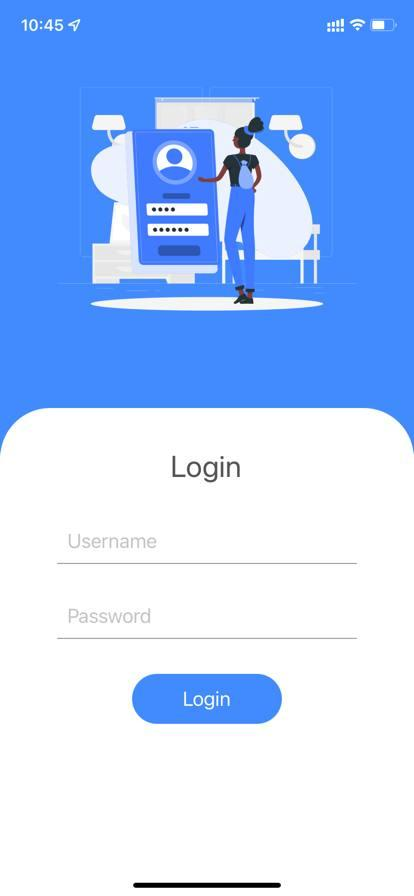
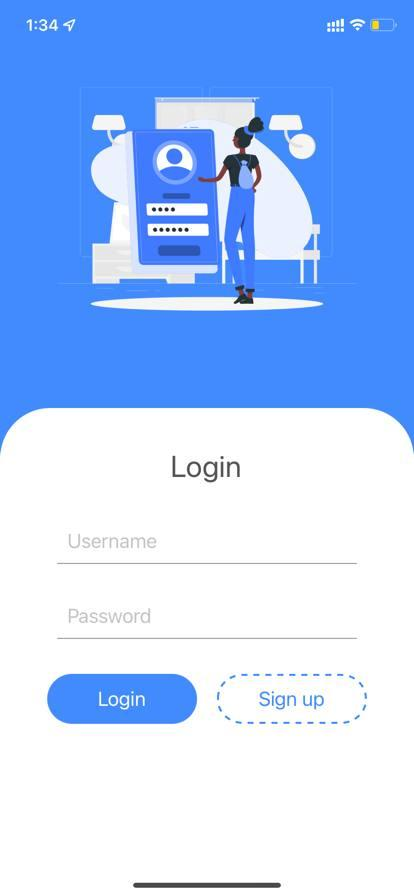
Created the sign up screen and added screenshots for it in readme

diff --git a/UniSS_mobile_app/app/screens/SignUp.js b/UniSS_mobile_app/app/screens/SignUp.js
@@ -1,27 +1,62 @@
-import {View, Text, StyleSheet, Image, TextInput, TouchableOpacity, Alert} from 'react-native';
-import AsyncStorage from '@react-native-async-storage/async-storage';
-import Colors from '../config/colors';
+import {Alert, Image, ScrollView, StyleSheet, Text, TextInput, TouchableOpacity, View} from "react-native";
+import Colors from "../config/colors";
 import {useState} from "react";
 import RequestData from "../config/requests";
 import Loading from "../components/loading";
-import axios from 'axios';
 import {login} from "../functions/login";
 
-export default function Login(props) {
-
+export const SignUp = (props) => {
 
     const [username, setUsername] = useState('');
     const [password, setPassword] = useState('');
+    const [password2, setPassword2] = useState('');
+    const [email, setEmail] = useState('');
     const [loaded, setLoaded] = useState(true);
 
-    if (loaded) {
+    const axios = require('axios').default;
+
+    const register = (reg_username, reg_password, reg_password2, reg_email)=>{
+        if(reg_password!==reg_password2){
+            Alert.alert('Sign up', "Password don't match!");
+        }
+        else{
+            const data = {
+                url: RequestData.baseUrl + '/api/v1/register/',
+                method: 'post',
+                headers: {
+                    'App-Token': RequestData.app_token,
+                },
+                data: {
+                    username: reg_username,
+                    password: reg_password,
+                    email: reg_email,
+                }
+            }
+            axios(data).then(async (response) => {
+                console.log(response.data);
+                props.setRegister(false);
+                login(props.setIsAuth, setLoaded, reg_username, reg_password);
+            }).catch(error => {
+                console.log(error);
+                if(error.response.status===400){
+                    Alert.alert('Sign up', 'A user with this username exists!');
+                }
+                else{
+                    Alert.alert('Sign up', 'Wrong data!');
+                }
+            })
+            console.log(reg_username, reg_password, reg_password2);
+        }
+    }
+
+    if(loaded){
         return (
             <View style={styles.body}>
                 <View style={styles.welcomeView}>
-                    <Image source={require('../images/login.png')} style={styles.welcomeImage}/>
+                    <Image source={require('../images/signUp.png')} style={styles.welcomeImage}/>
                 </View>
-                <View style={styles.inputView}>
-                    <Text style={styles.loginText}>Login</Text>
+                <ScrollView style={styles.inputView}>
+                    <Text style={styles.loginText}>Sign up</Text>
                     <View style={styles.formView}>
                         <View style={styles.textInputView}>
                             <TextInput onChangeText={newUsername => {
@@ -33,25 +68,38 @@ export default function Login(props) {
                                 setPassword(newPassword);
                             }} style={styles.textInput} editable placeholder={'Password'}/>
                         </View>
+                        <View style={styles.textInputView}>
+                            <TextInput secureTextEntry={true} onChangeText={newPassword => {
+                                setPassword2(newPassword);
+                            }} style={styles.textInput} editable placeholder={'Repeat password'}/>
+                        </View>
+                        <View style={styles.textInputView}>
+                            <TextInput secureTextEntry={true} onChangeText={newEmail => {
+                                setEmail(newEmail);
+                            }} style={styles.textInput} editable placeholder={'Email'}/>
+                        </View>
 
-                        <View style={{flexDirection: 'row'}}>
+                        <View style={{
+                            flexDirection: 'row',
+                        }}>
                             <TouchableOpacity onPress={() => {
-                                login(props.setIsAuth, setLoaded, username, password);
+                                register(username, password, password2, email)
                             }} style={styles.submitTouchEnable}>
-                                <Text style={styles.submitTextEnable}>Login</Text>
+                                <Text style={styles.submitTextEnable}>Sign up</Text>
                             </TouchableOpacity>
                             <TouchableOpacity onPress={() => {
-                                props.setRegister(true)
+                                props.setRegister(false)
                             }} style={styles.submitTouch}>
-                                <Text style={styles.submitText}>Sign up</Text>
+                                <Text style={styles.submitText}>Login</Text>
                             </TouchableOpacity>
                         </View>
                     </View>
-                </View>
+                </ScrollView>
             </View>
         )
-    } else {
-        return <Loading/>;
+    }
+    else{
+        return <Loading/>
     }
 }
 
@@ -67,7 +115,7 @@ const styles = StyleSheet.create({
         color: Colors.defaultFontColor,
     },
     welcomeView: {
-        flex: 1,
+        flex: 0.7,
         justifyContent: 'center',
         alignItems: 'center',
     },
@@ -81,13 +129,14 @@ const styles = StyleSheet.create({
         width: '100%',
         borderTopRightRadius: 50,
         borderTopLeftRadius: 50,
-        alignItems: 'center',
+        // alignItems: 'center',
         padding: 40,
     },
     loginText: {
         fontSize: 30,
         color: Colors.defaultFontColor,
         marginBottom: 20,
+        textAlign: 'center',
     },
     textInput: {
         padding: 10,

diff --git a/UniSS_mobile_app/app/components/Product.js b/UniSS_mobile_app/app/components/Product.js
@@ -3,20 +3,20 @@ import Colors from "../config/colors";
 
 const deviceWidth = Dimensions.get('window').width;
 
-export const Product = ({item, navigation}) => {
+export const Product = (props) => {
 
-    console.log(navigation);
+    console.log(props);
 
     return (
-        <TouchableOpacity style={styles.product} onPress={()=>{navigation.navigate('Product Info', {item})}}>
+        <TouchableOpacity style={styles.product} onPress={()=>{props.navigation.navigate('Product Info', {item: props.item})}}>
             <ImageBackground imageStyle={{
                 opacity: .5,
                 borderRadius: 50,
             }} style={styles.productBackground} resizeMode={'cover'}
                              source={require('../images/foodBackground.jpg')}>
-                <Text style={styles.productText}>{item.name} - {item.price} {item.currency}</Text>
-                <Text style={styles.productText}>{item.shopName}</Text>
-                <Text style={styles.productCode}>{item.code}</Text>
+                <Text style={styles.productText}>{props.item.name} - {props.item.price} {props.item.currency}</Text>
+                <Text style={styles.productText}>{props.item.shopName}</Text>
+                <Text style={styles.productCode}>{props.item.code}</Text>
             </ImageBackground>
         </TouchableOpacity>
     )

diff --git a/UniSS_mobile_app/app/functions/login.js b/UniSS_mobile_app/app/functions/login.js
@@ -1,0 +1,41 @@
+import RequestData from "../config/requests";
+import AsyncStorage from "@react-native-async-storage/async-storage";
+import {Alert} from "react-native";
+
+const axios = require('axios').default;
+
+export const login = async (setIsAuth,setLoaded, username, password) => {
+    setLoaded(false);
+    const data = {
+        method: 'post',
+        url: RequestData.baseUrl + '/api/v1/token/',
+        headers: {
+            'App-Token': RequestData.app_token,
+        },
+        data: {
+            username: username,
+            password: password,
+        }
+    };
+
+    const get_response = () => axios(data)
+        .then(response => {
+            if (response.status === 200) {
+                AsyncStorage.setItem('Auth-Token', response.data.token.toString());
+                setLoaded(true);
+                setIsAuth(true);
+            }
+        })
+        .catch(error => {
+            Alert.alert('Login', 'Wrong data!');
+            console.log(error);
+            setLoaded(true);
+        });
+    if((username==='')||(password==='')){
+        Alert.alert('Login', 'Wrong data!');
+        setLoaded(true);
+    }
+    else{
+        get_response();
+    }
+};

diff --git a/UniSS_mobile_app/App.js b/UniSS_mobile_app/App.js
@@ -11,12 +11,14 @@ import {useState} from "react";
 import Colors from './app/config/colors';
 import { Ionicons } from '@expo/vector-icons'
 import ShopsStack from "./app/screens/ShopsStack";
+import {SignUp} from "./app/screens/SignUp";
 
 
 export default function App() {
 
     const [loaded, setLoaded] = useState(false);
     const [isAuth, setIsAuth] = useState(false);
+    const [register, setRegister] = useState(false);
 
      setTimeout(()=>{
          AsyncStorage.getItem('Auth-Token').then(result=>{
@@ -69,7 +71,12 @@ export default function App() {
             );
         }
         else{
-            return <Login isAuth={isAuth} setIsAuth={setIsAuth}/>
+            if(register){
+                return <SignUp setIsAuth={setIsAuth} setRegister={setRegister}/>
+            }
+            else{
+                return <Login isAuth={isAuth} setIsAuth={setIsAuth} setRegister={setRegister}/>
+            }
         }
     }
     else{

diff --git a/UniSS_mobile_app/app/components/Shop_Product.js b/UniSS_mobile_app/app/components/Shop_Product.js
@@ -1,15 +1,15 @@
 import {Shop} from "./Shop";
 import {Product} from "./Product";
 
-export const Item = ({item}) => {
+export const Item = ({item, navigation}) => {
     if (item.type === 'product') {
         return (
-            <Product item={item}/>
+            <Product item={item} navigation={navigation}/>
         )
     }
     else if(item.type === 'shop'){
         return (
-            <Shop item={item}/>
+            <Shop item={item} navigation={navigation}/>
         )
     }
 }

diff --git a/UniSS_mobile_app/app/screens/Search.js b/UniSS_mobile_app/app/screens/Search.js
@@ -123,7 +123,9 @@ export default function Search(props) {
                     <FlatList
                         contentContainerStyle={styles.list}
                         data={items}
-                        renderItem={Item}
+                        renderItem={({item})=>{
+                            return Item({item, navigation: props.navigation})
+                        }}
                     />
                 </View>
             </SafeAreaView>

diff --git a/UniSS_mobile_app/app/config/requests.js b/UniSS_mobile_app/app/config/requests.js
@@ -1,5 +1,5 @@
 const RequestData = {
     app_token: 'i3MmShsaalQKrp16WYIm30Al4f0fYtr4',
-    baseUrl: 'https://3d08-185-158-219-252.ngrok.io',
+    baseUrl: 'https://ea52-185-158-219-252.ngrok.io',
 }
 export default RequestData;

diff --git a/README.md b/README.md
@@ -4,6 +4,8 @@
 
 * # Login
 ![Login](./screenshots/Login.jpg)
+* # Sign up
+![SignUp](./screenshots/SignUp.jpg)
 * # Home
 ![Home](./screenshots/Home.jpg)
 * # ProductsStack
